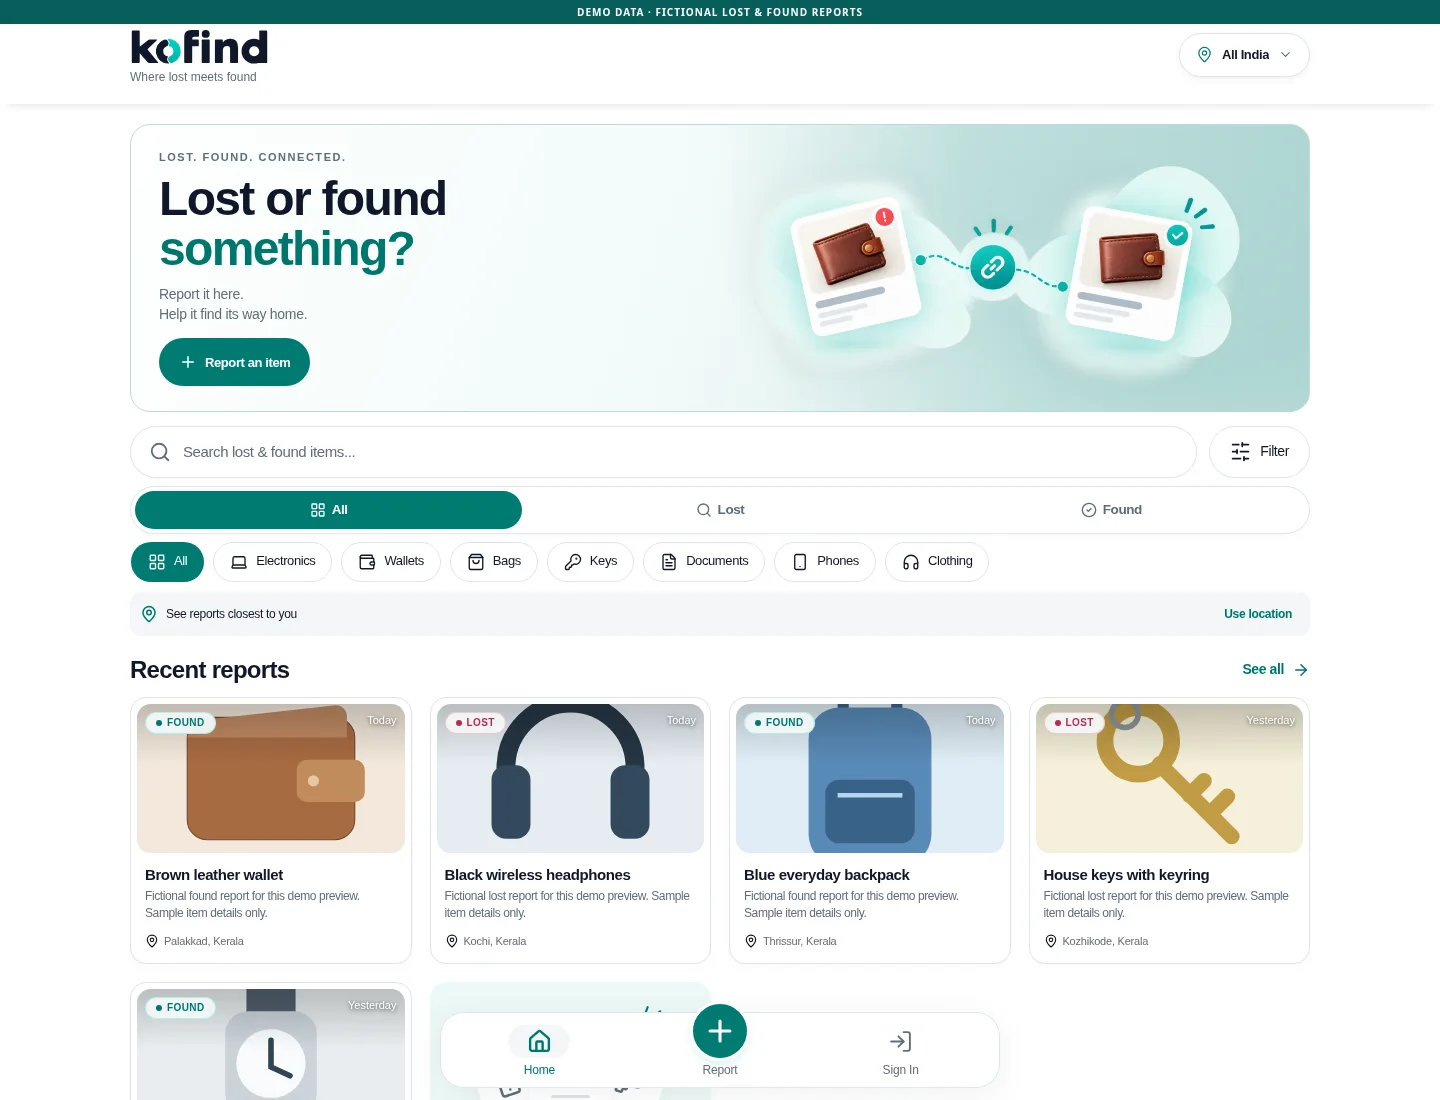
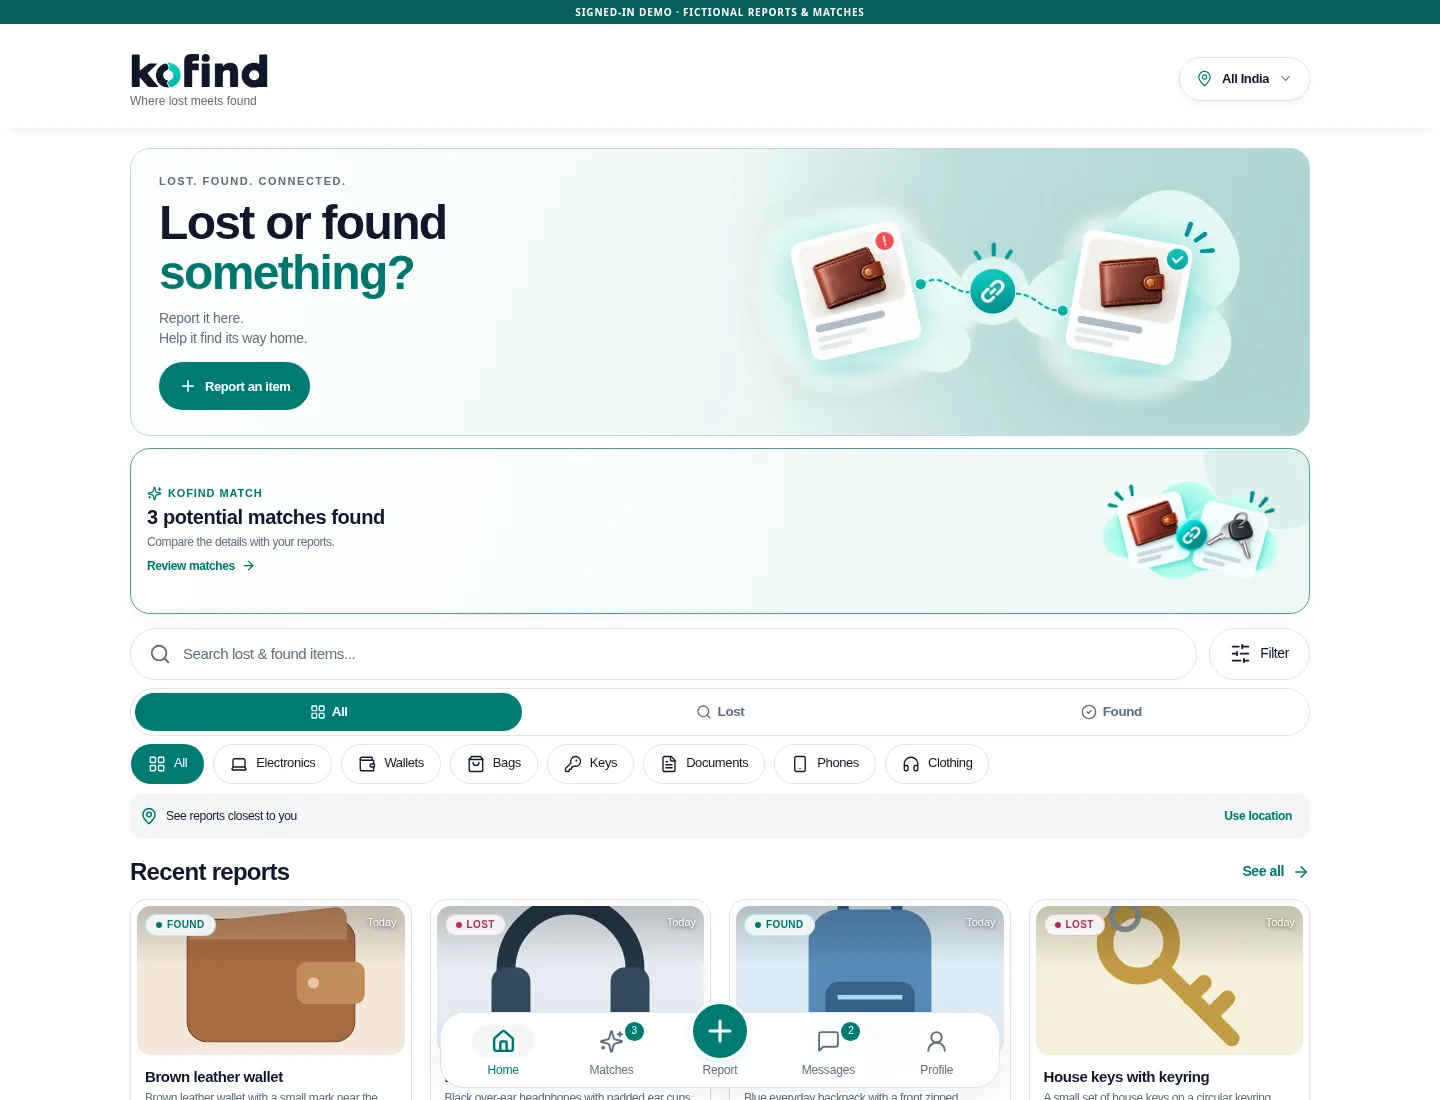
Show signed-in KoFind home, potential matches, and item detail previews

diff --git a/src/user/data/projects.js b/src/user/data/projects.js
@@ -5,8 +5,8 @@ export const projects = [
       {
         src: "/assets/projects/kofind-desktop.webp",
         thumbnail: "/assets/projects/kofind-desktop-640.webp",
-        label: "Recent reports with demo items · desktop",
-        alt: "KoFind homepage showing fictional lost-and-found sample reports",
+        label: "Signed-in home · desktop demo",
+        alt: "Signed-in KoFind signed-in home with fictional demo reports and matches",
         width: 1440,
         height: 1100,
         demo: true,
@@ -14,10 +14,46 @@ export const projects = [
       {
         src: "/assets/projects/kofind-mobile.webp",
         thumbnail: "/assets/projects/kofind-mobile-640.webp",
-        label: "Recent reports with demo items · mobile",
-        alt: "KoFind homepage showing fictional lost-and-found sample reports",
+        label: "Signed-in home · mobile demo",
+        alt: "Signed-in KoFind signed-in home with fictional demo reports and matches",
         width: 390,
         height: 1100,
+        demo: true,
+      },
+      {
+        src: "/assets/projects/kofind-matches-desktop.webp",
+        thumbnail: "/assets/projects/kofind-matches-desktop-640.webp",
+        label: "Potential matches · desktop demo",
+        alt: "Signed-in KoFind potential matches with fictional demo reports and matches",
+        width: 1440,
+        height: 1100,
+        demo: true,
+      },
+      {
+        src: "/assets/projects/kofind-matches-mobile.webp",
+        thumbnail: "/assets/projects/kofind-matches-mobile-640.webp",
+        label: "Potential matches · mobile demo",
+        alt: "Signed-in KoFind potential matches with fictional demo reports and matches",
+        width: 390,
+        height: 1100,
+        demo: true,
+      },
+      {
+        src: "/assets/projects/kofind-item-details-desktop.webp",
+        thumbnail: "/assets/projects/kofind-item-details-desktop-640.webp",
+        label: "Item details · desktop demo",
+        alt: "Signed-in KoFind item details with fictional demo reports and matches",
+        width: 1440,
+        height: 1100,
+        demo: true,
+      },
+      {
+        src: "/assets/projects/kofind-item-details-mobile.webp",
+        thumbnail: "/assets/projects/kofind-item-details-mobile-640.webp",
+        label: "Item details · mobile demo",
+        alt: "Signed-in KoFind item details with fictional demo reports and matches",
+        width: 390,
+        height: 1200,
         demo: true,
       },
     ],
